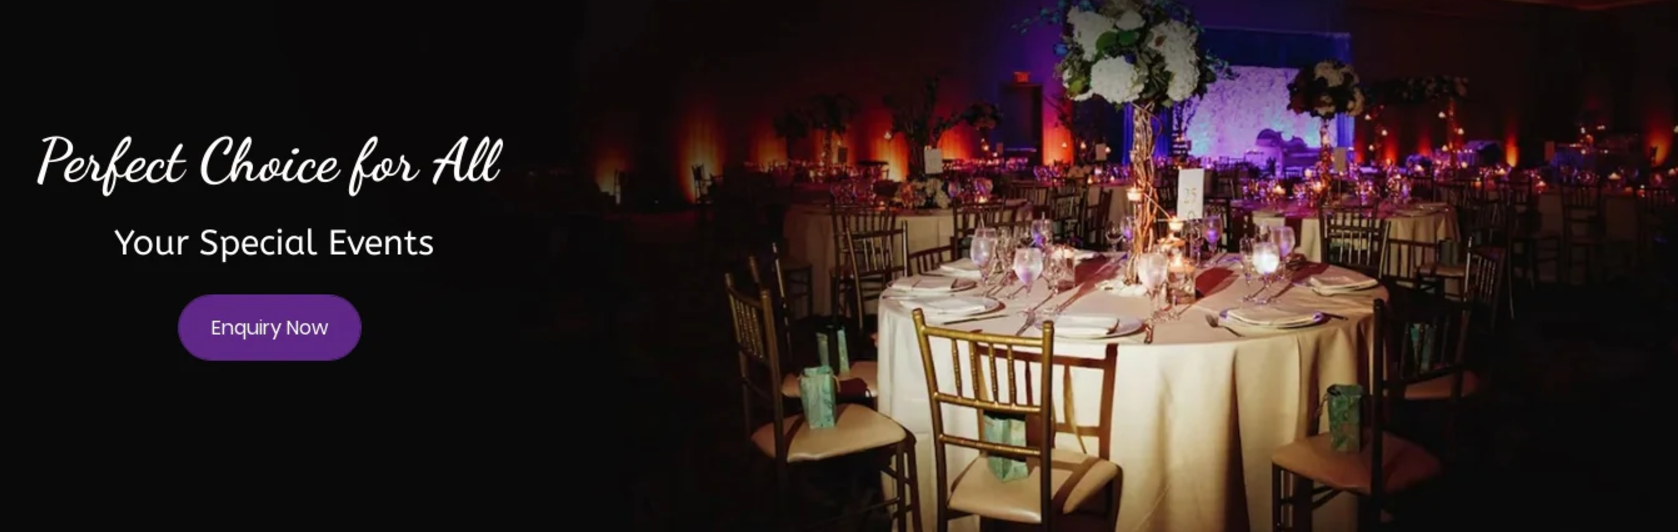
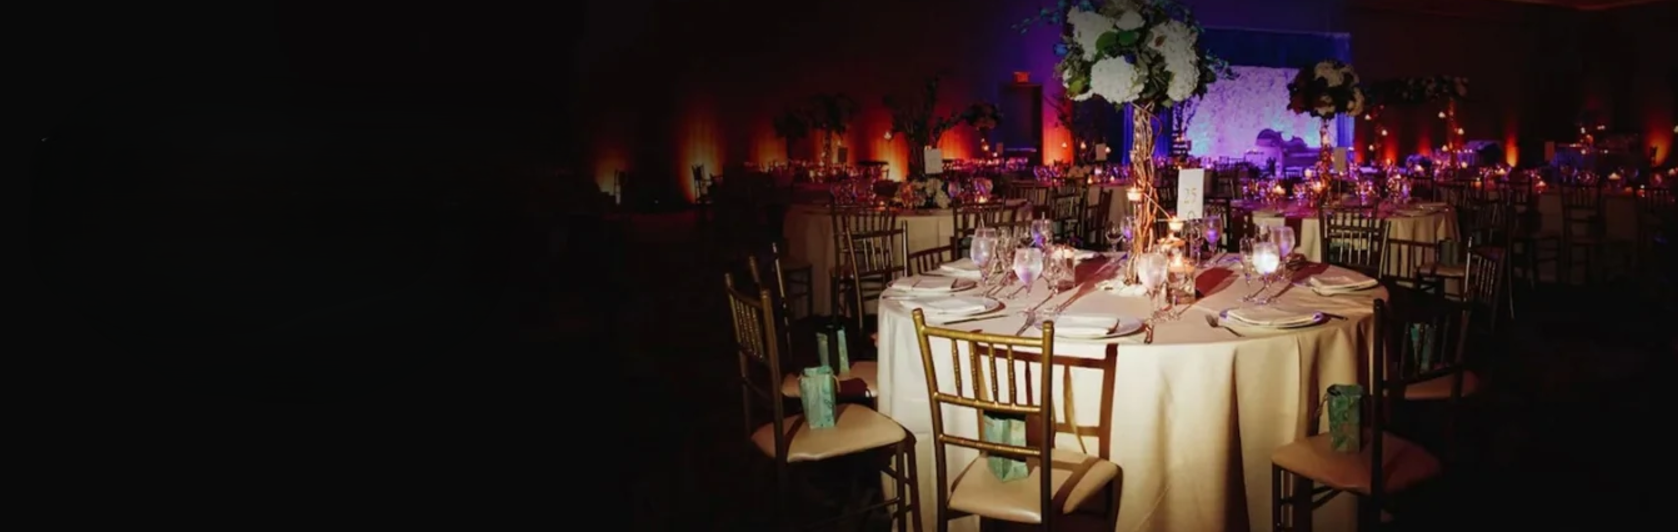
added

Changed region(s): [[0.0, 0.2406, 0.3099, 0.3609], [0.093, 0.5414, 0.2169, 0.6917], [0.062, 0.4211, 0.2789, 0.4812]]

diff --git a/demo.css b/demo.css
@@ -71,14 +71,25 @@ span{
 
 /* carousel code */
 @media (min-width: 769px){
+    .fill{
+        position:absolute;
+        top:300px;
+        left:80px;
+        color:#fff;
+    }
+
+    .top-heading{
+        font-family:Brush Script MT;
+        overflow: hidden;
+        font-size:50px;
+    }
+    .top-para{
+        font-size:20px;
+    }
 
     .top-image{
         height:90vh;
         width:100%;
-    }
-
-    .mobile-container{
-        display:none;
     }
 
     .top-button{
@@ -132,16 +143,24 @@ span{
 
 
 @media (max-width: 768px) {
-    .laptop-container{
-        display:none;
+    .top-image{
+        height:90vh;
+        width:100%;
     }
-    
+
+    .top-heading{
+        font-family:Brush Script MT;
+        overflow: hidden;
+        font-size:30px;
+    }
+    .top-para{
+        font-size:16px;
+    }
     .fill {
-        background-color:#000000;
-        height:200px;
-        color:white;
-        padding:20px;
-        text-align:center;
+        position:absolute;
+        top:140px;
+        left:20px;
+        color:#fff; 
     }
     
     .book-button {
@@ -152,11 +171,13 @@ span{
     
     .top-heading{
         font-family:Caveat;
+        font-size:26px;
     }
     
     .top-image{
-        position:absolute;
-        top:180px;
+        height:50vh;
+        width:100%;
+        
     }
           
  }
@@ -268,7 +289,7 @@ span{
 
 /* aboutus section */
 .aboutus-section {
-    height: 100vh;
+    height: 90vh;
     display: flex;
     align-items: center; /* Vertically center content */
     justify-content: space-between;
@@ -290,15 +311,16 @@ span{
 .description {
     font-family: 'Times New Roman', Times, serif;
     margin-left: 150px;
-    text-align:justify;
+    
 }
 
 .about-image {
     float: right;
-    height: 90vh;
+    height: 80vh;
     width: 70%;
     margin-right: 25px;
     border-radius: 10px; /* Optional: Add rounded corners to the image */
+    overflow-y:hidden;
 }
 
 /* Media Query for Mobile Devices */
@@ -320,12 +342,12 @@ span{
     .description {
         margin: 20px auto; /* Center content and add spacing */
         padding: 0 20px; /* Add padding for better readability */
-        text-align:justify;
+        text-align:left;
     }
 
     .about-image {
         float: none; /* Remove float */
-        height: auto; /* Adjust height automatically */
+        /* Adjust height automatically */
         width: 100%; /* Use full width of the container */
         margin: 20px 0; /* Add spacing around the image */
     }
@@ -350,7 +372,7 @@ span{
 
 /* gallery section */
 .gallery-section {
-    height: 100vh;
+    height: 80vh;
     display: flex;
     flex-direction: column;
     align-items: center; /* Center-align content */

diff --git a/index.html b/index.html
@@ -48,7 +48,11 @@
         <div class="home-section" id="homeSection">
            <div class="laptop-container">
               <img src="images/top image.png" class="top-image">
-              <a href="book.html"><button class="book-button btn btn-primary">Book Now</button></a>
+              <div class="fill">
+                <h1 class="top-heading">Perfect Choice for all </h1>
+                <p class="top-para">Your Special Events</p>
+                <a href="book.html"><button class="book-button btn btn-primary">Book Now</button></a>
+            </div>
            </div>
             
       
@@ -114,7 +118,7 @@
                 </a>
         </div> -->
 
-        <div class="mobile-container">
+        <!-- <div class="mobile-container">
             <div class="fill">
                 <h1 class="top-heading">Perfect Choice for all </h1>
                 <p class="top-para">Your Special Events</p>
@@ -122,7 +126,7 @@
             </div>
             <img src="https://images.pexels.com/photos/16120232/pexels-photo-16120232/free-photo-of-tables-in-wedding-reception-venue.jpeg?auto=compress&cs=tinysrgb&w=600"
             class="top-image"/>
-        </div>
+        </div> -->
         </div>
 
         <div class="service-section pt-5 pl-5 pr-5" id="serviceSection">
